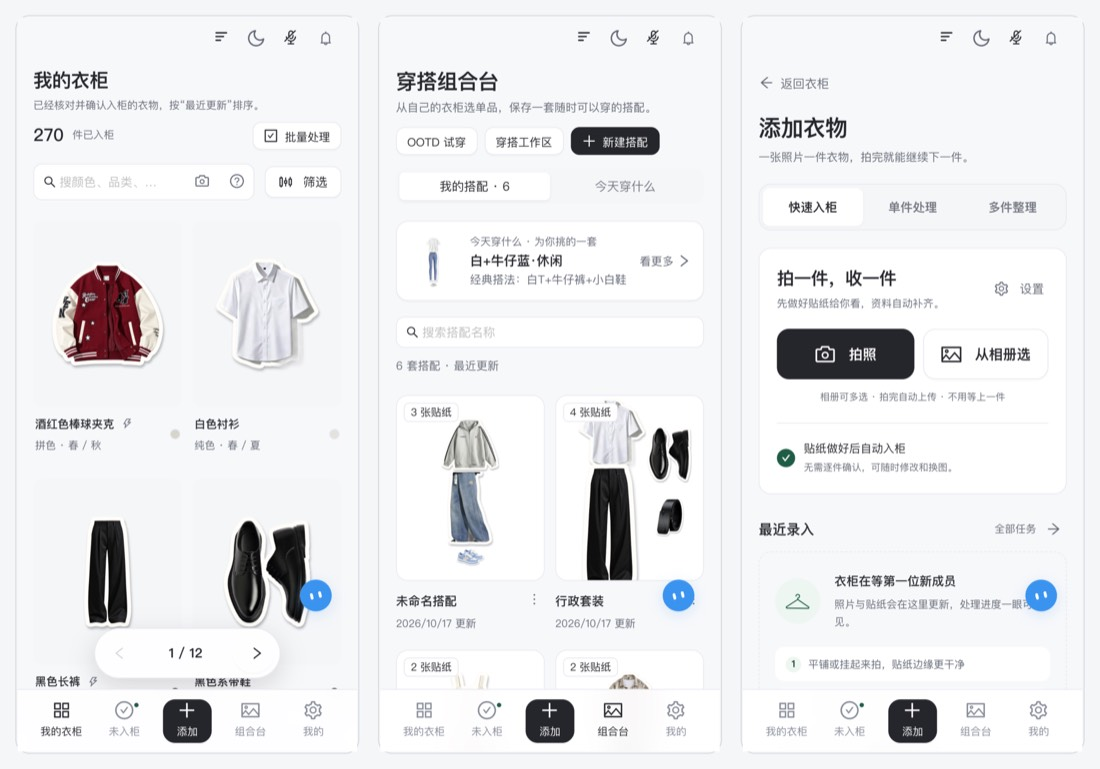
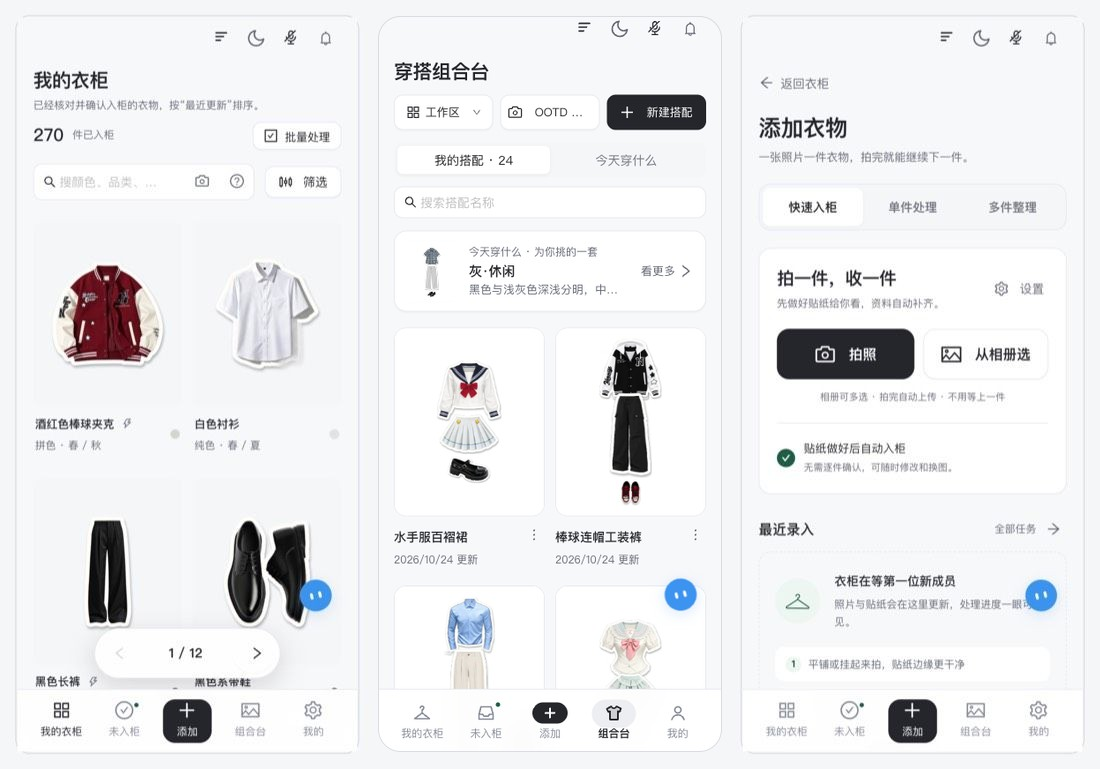
docs: README 换用新的搭配截图，新增 OOTD 上身图（年轻女生、年轻男生、成熟男士） (#67)

diff --git a/README.md b/README.md
@@ -14,7 +14,7 @@
 
 [快速开始](#快速开始) · [功能](#功能) · [构建与发布](#构建与发布) · [后端仓库](https://github.com/yumengjh/smart-closet-server) · [界面流程说明](docs/INTERACTION.md)
 
-<img src="docs/readme/today-outfits.jpg" alt="今天穿什么" width="88%">
+<img src="docs/readme/today-outfits.jpg" alt="穿搭组合台：我的搭配" width="88%">
 
 </div>
 
@@ -67,6 +67,9 @@ project/
 <tr>
 <td><img src="docs/readme/assistant.jpg" alt="全局助手"><br><sub><b>全局助手</b></sub></td>
 <td><img src="docs/readme/mobile.jpg" alt="手机端"><br><sub><b>手机端</b></sub></td>
+</tr>
+<tr>
+<td colspan="2"><img src="docs/readme/ootd.jpg" alt="OOTD 上身图"><br><sub><b>OOTD 上身</b>：年轻女生、年轻男生、成熟男士；人物均为 AI 生成的虚拟模特</sub></td>
 </tr>
 </table>
 
